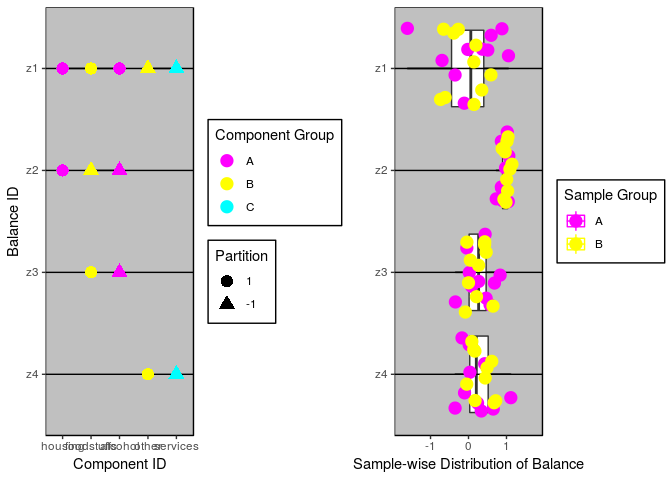
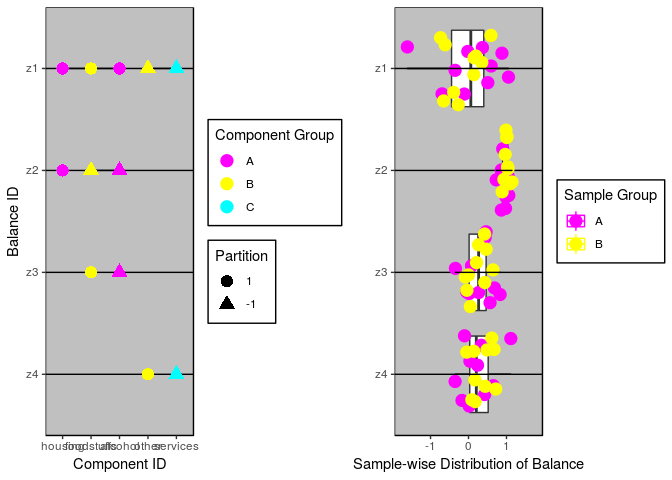
Remove size.line argument from balance

Changed region(s): [[0.6562, 0.25, 0.7812, 0.875], [0.5938, 0.0312, 0.7812, 0.25]]

diff --git a/NEWS.md b/NEWS.md
@@ -1,3 +1,8 @@
+## balance 0.0.8
+---------------------
+* Update `balance` method
+    * Remove `size.line` argument and do not set size for `!weigh.var`
+
 ## balance 0.0.7
 ---------------------
 * Update `balance` method
